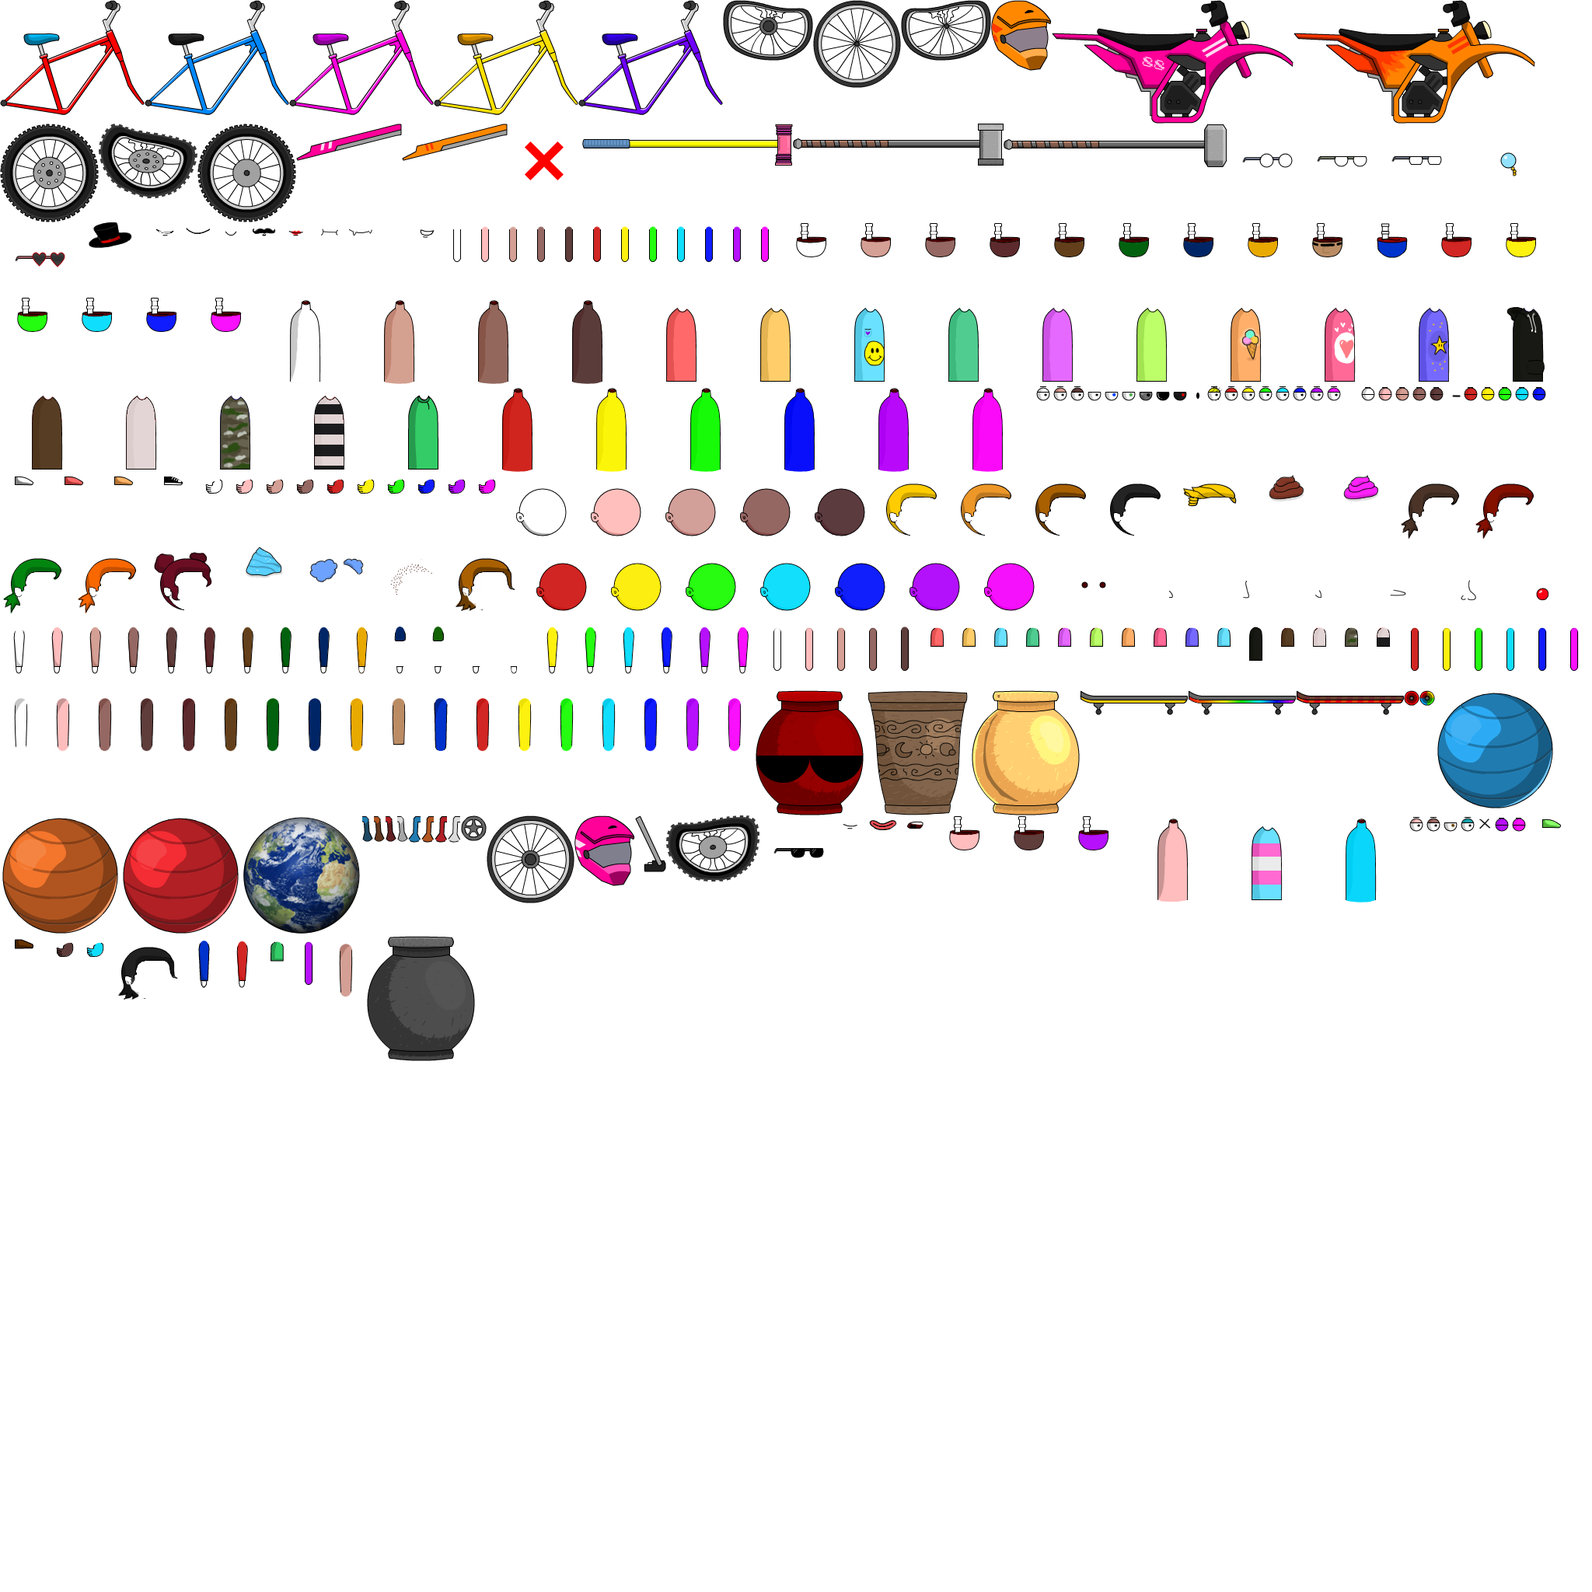
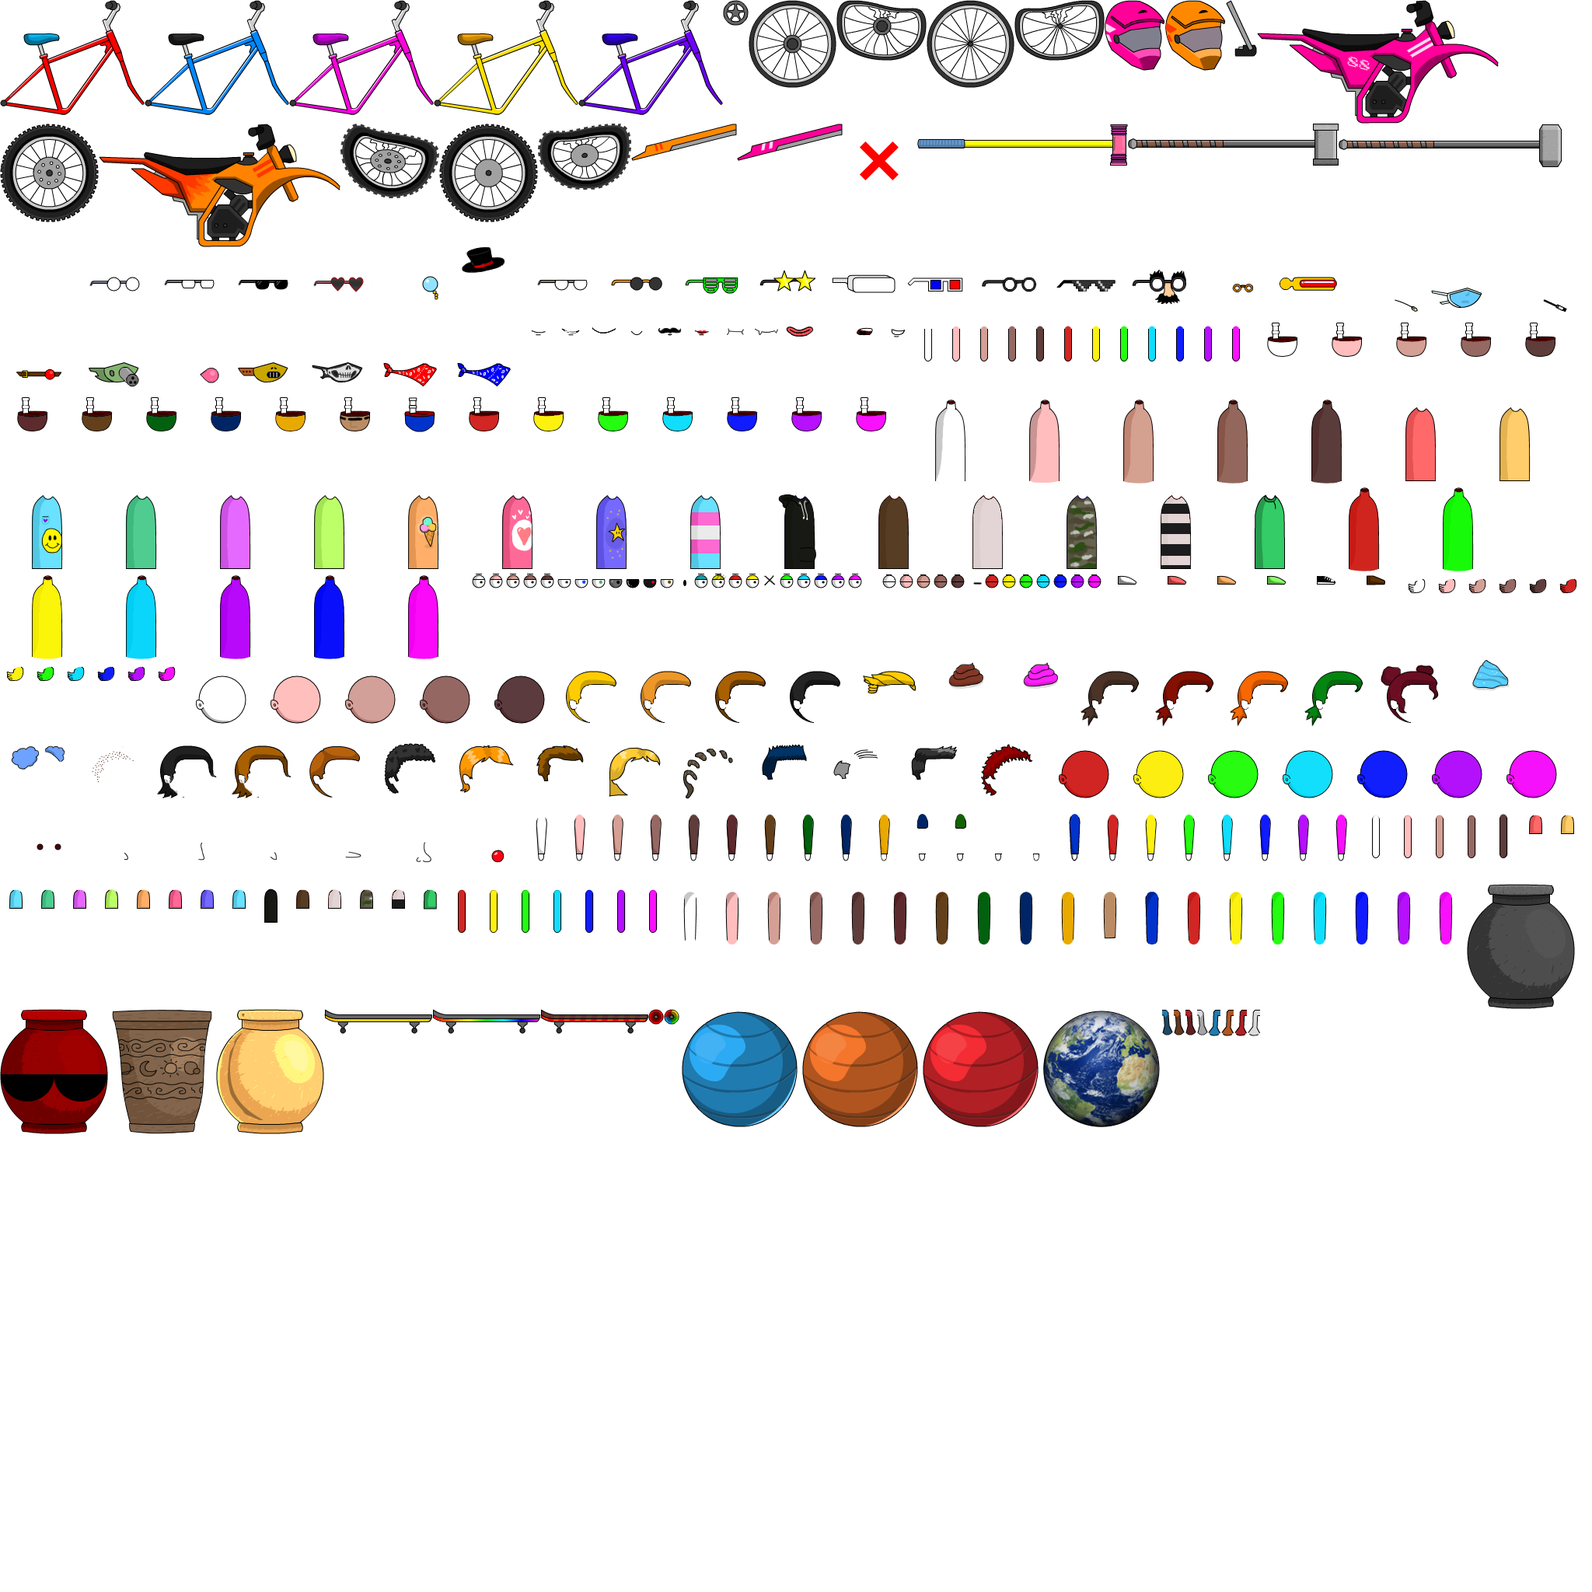
JollyBoy's assets are now in

Changed region(s): [[0.0, 0.0, 1.0, 0.7188]]

diff --git a/static/mod/wardrobe/bundler.html b/static/mod/wardrobe/bundler.html
@@ -8,7 +8,7 @@
 <body>
 	<canvas width="2048" height="2048"></canvas>
 	<script type="text/javascript">
-		const imgs = ['Bicycle_Body0000.png', 'Bicycle_Body0001.png', 'Bicycle_Body0002.png', 'Bicycle_Body0003.png', 'Bicycle_Body0004.png', 'Bicycle_Pedals0000.png', 'Bicycle_WheelBack0000.png', 'Bicycle_WheelBack_Bended0000.png', 'Bicycle_WheelFront0000.png', 'Bicycle_WheelFront_Bended0000.png', 'DirtBikeHelmet0000.png', 'DirtBikeHelmet0001.png', 'DirtBike_Axis0000.png', 'DirtBike_Body0000.png', 'DirtBike_Body0001.png', 'DirtBike_WheelBack0000.png', 'DirtBike_WheelBack_Bended0000.png', 'DirtBike_WheelFront0000.png', 'DirtBike_WheelFront_Bended0000.png', 'DirtBike_WheelSupport0000.png', 'DirtBike_WheelSupport0001.png', 'empty.png', 'Hammer0000.png', 'Hammer0001.png', 'Hammer_20000.png', 'masks0000.png', 'masks0001.png', 'masks0002.png', 'masks0003.png', 'masks0004.png', 'masks0005.png', 'masks0006.png', 'Mouth_Idle0000.png', 'Mouth_Idle0001.png', 'Mouth_Idle0002.png', 'Mouth_Idle0003.png', 'Mouth_Idle0004.png', 'Mouth_Idle0005.png', 'Mouth_Idle0006.png', 'Mouth_Idle0007.png', 'Mouth_Idle0008.png', 'Mouth_Idle9998.png', 'Mouth_Pain0000.png', 'Mouth_Special0000.png', 'Normal_Arm0000.png', 'Normal_Arm0001.png', 'Normal_Arm0002.png', 'Normal_Arm0003.png', 'Normal_Arm0004.png', 'Normal_Arm1000.png', 'Normal_Arm1001.png', 'Normal_Arm1002.png', 'Normal_Arm1003.png', 'Normal_Arm1004.png', 'Normal_Arm1005.png', 'Normal_Arm1006.png', 'Normal_Belly0000.png', 'Normal_Belly0001.png', 'Normal_Belly0002.png', 'Normal_Belly0003.png', 'Normal_Belly0004.png', 'Normal_Belly0005.png', 'Normal_Belly0006.png', 'Normal_Belly0007.png', 'Normal_Belly0008.png', 'Normal_Belly0009.png', 'Normal_Belly0010.png', 'Normal_Belly0011.png', 'Normal_Belly1000.png', 'Normal_Belly1001.png', 'Normal_Belly1002.png', 'Normal_Belly1003.png', 'Normal_Belly1004.png', 'Normal_Belly1005.png', 'Normal_Belly1006.png', 'Normal_Core0000.png', 'Normal_Core0001.png', 'Normal_Core0002.png', 'Normal_Core0003.png', 'Normal_Core0004.png', 'Normal_Core0005.png', 'Normal_Core0006.png', 'Normal_Core0007.png', 'Normal_Core0008.png', 'Normal_Core0009.png', 'Normal_Core0010.png', 'Normal_Core0011.png', 'Normal_Core0012.png', 'Normal_Core0013.png', 'Normal_Core0014.png', 'Normal_Core0015.png', 'Normal_Core0016.png', 'Normal_Core0017.png', 'Normal_Core0018.png', 'Normal_Core0019.png', 'Normal_Core0020.png', 'Normal_Core1000.png', 'Normal_Core1001.png', 'Normal_Core1002.png', 'Normal_Core1003.png', 'Normal_Core1004.png', 'Normal_Core1005.png', 'Normal_Core1006.png', 'Normal_Eye0000.png', 'Normal_Eye0001.png', 'Normal_Eye0002.png', 'Normal_Eye0003.png', 'Normal_Eye0004.png', 'Normal_Eye0005.png', 'Normal_Eye0006.png', 'Normal_Eye0007.png', 'Normal_Eye0008.png', 'Normal_Eye0009.png', 'Normal_Eye0010.png', 'Normal_Eye0012.png', 'Normal_Eye0013.png', 'Normal_Eye0014.png', 'Normal_Eye0015.png', 'Normal_Eye0016.png', 'Normal_Eye1000.png', 'Normal_Eye1001.png', 'Normal_Eye1002.png', 'Normal_Eye1003.png', 'Normal_Eye1004.png', 'Normal_Eye1005.png', 'Normal_Eye1006.png', 'Normal_Eye9998.png', 'Normal_Eye_Closed0000.png', 'Normal_Eye_Closed0001.png', 'Normal_Eye_Closed0002.png', 'Normal_Eye_Closed0003.png', 'Normal_Eye_Closed0004.png', 'Normal_Eye_Closed0005.png', 'Normal_Eye_Closed1000.png', 'Normal_Eye_Closed1001.png', 'Normal_Eye_Closed1002.png', 'Normal_Eye_Closed1003.png', 'Normal_Eye_Closed1004.png', 'Normal_Eye_Closed1005.png', 'Normal_Eye_Closed1006.png', 'Normal_Feet0000.png', 'Normal_Feet0001.png', 'Normal_Feet0002.png', 'Normal_Feet0003.png', 'Normal_Feet0004.png', 'Normal_Feet0005.png', 'Normal_Hand0000.png', 'Normal_Hand0001.png', 'Normal_Hand0002.png', 'Normal_Hand0003.png', 'Normal_Hand0004.png', 'Normal_Hand1000.png', 'Normal_Hand1001.png', 'Normal_Hand1002.png', 'Normal_Hand1003.png', 'Normal_Hand1004.png', 'Normal_Hand1005.png', 'Normal_Hand1006.png', 'Normal_Head_Idle0000.png', 'Normal_Head_Idle0001.png', 'Normal_Head_Idle0002.png', 'Normal_Head_Idle0003.png', 'Normal_Head_Idle0004.png', 'Normal_Head_Idle0005.png', 'Normal_Head_Idle0006.png', 'Normal_Head_Idle0007.png', 'Normal_Head_Idle0008.png', 'Normal_Head_Idle0009.png', 'Normal_Head_Idle0010.png', 'Normal_Head_Idle0011.png', 'Normal_Head_Idle0012.png', 'Normal_Head_Idle0013.png', 'Normal_Head_Idle0014.png', 'Normal_Head_Idle0015.png', 'Normal_Head_Idle0017.png', 'Normal_Head_Idle0018.png', 'Normal_Head_Idle0019.png', 'Normal_Head_Idle0020.png', 'Normal_Head_Idle0021.png', 'Normal_Head_Idle0022.png', 'Normal_Head_Idle1000.png', 'Normal_Head_Idle1001.png', 'Normal_Head_Idle1002.png', 'Normal_Head_Idle1003.png', 'Normal_Head_Idle1004.png', 'Normal_Head_Idle1005.png', 'Normal_Head_Idle1006.png', 'Normal_Head_Idle9998.png', 'Normal_Head_Nose0000.png', 'Normal_Head_Nose0001.png', 'Normal_Head_Nose0002.png', 'Normal_Head_Nose0003.png', 'Normal_Head_Nose0004.png', 'Normal_Head_Nose0005.png', 'Normal_Leg0000.png', 'Normal_Leg0001.png', 'Normal_Leg0002.png', 'Normal_Leg0003.png', 'Normal_Leg0004.png', 'Normal_Leg0005.png', 'Normal_Leg0006.png', 'Normal_Leg0007.png', 'Normal_Leg0008.png', 'Normal_Leg0009.png', 'Normal_Leg0010.png', 'Normal_Leg0011.png', 'Normal_Leg0012.png', 'Normal_Leg0013.png', 'Normal_Leg0014.png', 'Normal_Leg1000.png', 'Normal_Leg1001.png', 'Normal_Leg1002.png', 'Normal_Leg1003.png', 'Normal_Leg1004.png', 'Normal_Leg1005.png', 'Normal_Leg1006.png', 'Normal_Shoulder0000.png', 'Normal_Shoulder0001.png', 'Normal_Shoulder0002.png', 'Normal_Shoulder0003.png', 'Normal_Shoulder0004.png', 'Normal_Shoulder0005.png', 'Normal_Shoulder0006.png', 'Normal_Shoulder0007.png', 'Normal_Shoulder0008.png', 'Normal_Shoulder0009.png', 'Normal_Shoulder0010.png', 'Normal_Shoulder0011.png', 'Normal_Shoulder0012.png', 'Normal_Shoulder0013.png', 'Normal_Shoulder0014.png', 'Normal_Shoulder0015.png', 'Normal_Shoulder0016.png', 'Normal_Shoulder0017.png', 'Normal_Shoulder0018.png', 'Normal_Shoulder0019.png', 'Normal_Shoulder0020.png', 'Normal_Shoulder1000.png', 'Normal_Shoulder1001.png', 'Normal_Shoulder1002.png', 'Normal_Shoulder1003.png', 'Normal_Shoulder1004.png', 'Normal_Shoulder1005.png', 'Normal_Shoulder1006.png', 'Normal_Thigh0000.png', 'Normal_Thigh0001.png', 'Normal_Thigh0002.png', 'Normal_Thigh0003.png', 'Normal_Thigh0004.png', 'Normal_Thigh0005.png', 'Normal_Thigh0006.png', 'Normal_Thigh0007.png', 'Normal_Thigh0008.png', 'Normal_Thigh0009.png', 'Normal_Thigh0010.png', 'Normal_Thigh0011.png', 'Normal_Thigh1000.png', 'Normal_Thigh1001.png', 'Normal_Thigh1002.png', 'Normal_Thigh1003.png', 'Normal_Thigh1004.png', 'Normal_Thigh1005.png', 'Normal_Thigh1006.png', 'Pot0000.png', 'Pot0001.png', 'Pot0002.png', 'Pot_20000.png', 'SkateBoard_Board0000.png', 'SkateBoard_Board0001.png', 'SkateBoard_Board0002.png', 'Skateboard_Wheel0000.png', 'Skateboard_Wheel0001.png', 'YogaBall0000.png', 'YogaBall0001.png', 'YogaBall0002.png', 'YogaBall0003.png', 'YogaBallHandle_Back0000.png', 'YogaBallHandle_Back0001.png', 'YogaBallHandle_Back0002.png', 'YogaBallHandle_Back0003.png', 'YogaBall_Handle_Front0000.png', 'YogaBall_Handle_Front0001.png', 'YogaBall_Handle_Front0002.png', 'YogaBall_Handle_Front0003.png'];
+		const imgs = ['Bicycle_Body0000.png', 'Bicycle_Body0001.png', 'Bicycle_Body0002.png', 'Bicycle_Body0003.png', 'Bicycle_Body0004.png', 'Bicycle_Pedals0000.png', 'Bicycle_WheelBack0000.png', 'Bicycle_WheelBack_Bended0000.png', 'Bicycle_WheelFront0000.png', 'Bicycle_WheelFront_Bended0000.png', 'DirtBikeHelmet0000.png', 'DirtBikeHelmet0001.png', 'DirtBike_Axis0000.png', 'DirtBike_Body0000.png', 'DirtBike_Body0001.png', 'DirtBike_WheelBack0000.png', 'DirtBike_WheelBack_Bended0000.png', 'DirtBike_WheelFront0000.png', 'DirtBike_WheelFront_Bended0000.png', 'DirtBike_WheelSupport0000.png', 'DirtBike_WheelSupport0001.png', 'empty.png', 'Hammer0000.png', 'Hammer0001.png', 'Hammer_20000.png', 'masks0000.png', 'masks0001.png', 'masks0002.png', 'masks0003.png', 'masks0004.png', 'masks0005.png', 'masks0006.png', 'masks0007.png', 'masks0008.png', 'masks0009.png', 'masks0010.png', 'masks0011.png', 'masks0012.png', 'masks0013.png', 'masks0014.png', 'masks0015.png', 'masks0016.png', 'masks0017.png', 'masks0018.png', 'masks0019.png', 'masks0020.png', 'masks0021.png', 'masks0022.png', 'masks0023.png', 'masks0024.png', 'masks0025.png', 'masks0026.png', 'masks0027.png', 'Mouth_Idle0000.png', 'Mouth_Idle0001.png', 'Mouth_Idle0002.png', 'Mouth_Idle0003.png', 'Mouth_Idle0004.png', 'Mouth_Idle0005.png', 'Mouth_Idle0006.png', 'Mouth_Idle0007.png', 'Mouth_Idle0008.png', 'Mouth_Idle9998.png', 'Mouth_Pain0000.png', 'Mouth_Special0000.png', 'Normal_Arm0000.png', 'Normal_Arm0001.png', 'Normal_Arm0002.png', 'Normal_Arm0003.png', 'Normal_Arm0004.png', 'Normal_Arm1000.png', 'Normal_Arm1001.png', 'Normal_Arm1002.png', 'Normal_Arm1003.png', 'Normal_Arm1004.png', 'Normal_Arm1005.png', 'Normal_Arm1006.png', 'Normal_Belly0000.png', 'Normal_Belly0001.png', 'Normal_Belly0002.png', 'Normal_Belly0003.png', 'Normal_Belly0004.png', 'Normal_Belly0005.png', 'Normal_Belly0006.png', 'Normal_Belly0007.png', 'Normal_Belly0008.png', 'Normal_Belly0009.png', 'Normal_Belly0010.png', 'Normal_Belly0011.png', 'Normal_Belly1000.png', 'Normal_Belly1001.png', 'Normal_Belly1002.png', 'Normal_Belly1003.png', 'Normal_Belly1004.png', 'Normal_Belly1005.png', 'Normal_Belly1006.png', 'Normal_Core0000.png', 'Normal_Core0001.png', 'Normal_Core0002.png', 'Normal_Core0003.png', 'Normal_Core0004.png', 'Normal_Core0005.png', 'Normal_Core0006.png', 'Normal_Core0007.png', 'Normal_Core0008.png', 'Normal_Core0009.png', 'Normal_Core0010.png', 'Normal_Core0011.png', 'Normal_Core0012.png', 'Normal_Core0013.png', 'Normal_Core0014.png', 'Normal_Core0015.png', 'Normal_Core0016.png', 'Normal_Core0017.png', 'Normal_Core0018.png', 'Normal_Core0019.png', 'Normal_Core0020.png', 'Normal_Core1000.png', 'Normal_Core1001.png', 'Normal_Core1002.png', 'Normal_Core1003.png', 'Normal_Core1004.png', 'Normal_Core1005.png', 'Normal_Core1006.png', 'Normal_Eye0000.png', 'Normal_Eye0001.png', 'Normal_Eye0002.png', 'Normal_Eye0003.png', 'Normal_Eye0004.png', 'Normal_Eye0005.png', 'Normal_Eye0006.png', 'Normal_Eye0007.png', 'Normal_Eye0008.png', 'Normal_Eye0009.png', 'Normal_Eye0010.png', 'Normal_Eye0012.png', 'Normal_Eye0013.png', 'Normal_Eye0014.png', 'Normal_Eye0015.png', 'Normal_Eye0016.png', 'Normal_Eye1000.png', 'Normal_Eye1001.png', 'Normal_Eye1002.png', 'Normal_Eye1003.png', 'Normal_Eye1004.png', 'Normal_Eye1005.png', 'Normal_Eye1006.png', 'Normal_Eye9998.png', 'Normal_Eye_Closed0000.png', 'Normal_Eye_Closed0001.png', 'Normal_Eye_Closed0002.png', 'Normal_Eye_Closed0003.png', 'Normal_Eye_Closed0004.png', 'Normal_Eye_Closed0005.png', 'Normal_Eye_Closed1000.png', 'Normal_Eye_Closed1001.png', 'Normal_Eye_Closed1002.png', 'Normal_Eye_Closed1003.png', 'Normal_Eye_Closed1004.png', 'Normal_Eye_Closed1005.png', 'Normal_Eye_Closed1006.png', 'Normal_Feet0000.png', 'Normal_Feet0001.png', 'Normal_Feet0002.png', 'Normal_Feet0003.png', 'Normal_Feet0004.png', 'Normal_Feet0005.png', 'Normal_Hand0000.png', 'Normal_Hand0001.png', 'Normal_Hand0002.png', 'Normal_Hand0003.png', 'Normal_Hand0004.png', 'Normal_Hand1000.png', 'Normal_Hand1001.png', 'Normal_Hand1002.png', 'Normal_Hand1003.png', 'Normal_Hand1004.png', 'Normal_Hand1005.png', 'Normal_Hand1006.png', 'Normal_Head_Idle0000.png', 'Normal_Head_Idle0001.png', 'Normal_Head_Idle0002.png', 'Normal_Head_Idle0003.png', 'Normal_Head_Idle0004.png', 'Normal_Head_Idle0005.png', 'Normal_Head_Idle0006.png', 'Normal_Head_Idle0007.png', 'Normal_Head_Idle0008.png', 'Normal_Head_Idle0009.png', 'Normal_Head_Idle0010.png', 'Normal_Head_Idle0011.png', 'Normal_Head_Idle0012.png', 'Normal_Head_Idle0013.png', 'Normal_Head_Idle0014.png', 'Normal_Head_Idle0015.png', 'Normal_Head_Idle0017.png', 'Normal_Head_Idle0018.png', 'Normal_Head_Idle0019.png', 'Normal_Head_Idle0020.png', 'Normal_Head_Idle0021.png', 'Normal_Head_Idle0022.png', 'Normal_Head_Idle0023.png', 'Normal_Head_Idle0024.png', 'Normal_Head_Idle0025.png', 'Normal_Head_Idle0026.png', 'Normal_Head_Idle0027.png', 'Normal_Head_Idle0028.png', 'Normal_Head_Idle0029.png', 'Normal_Head_Idle0030.png', 'Normal_Head_Idle0031.png', 'Normal_Head_Idle0032.png', 'Normal_Head_Idle1000.png', 'Normal_Head_Idle1001.png', 'Normal_Head_Idle1002.png', 'Normal_Head_Idle1003.png', 'Normal_Head_Idle1004.png', 'Normal_Head_Idle1005.png', 'Normal_Head_Idle1006.png', 'Normal_Head_Idle9998.png', 'Normal_Head_Nose0000.png', 'Normal_Head_Nose0001.png', 'Normal_Head_Nose0002.png', 'Normal_Head_Nose0003.png', 'Normal_Head_Nose0004.png', 'Normal_Head_Nose0005.png', 'Normal_Leg0000.png', 'Normal_Leg0001.png', 'Normal_Leg0002.png', 'Normal_Leg0003.png', 'Normal_Leg0004.png', 'Normal_Leg0005.png', 'Normal_Leg0006.png', 'Normal_Leg0007.png', 'Normal_Leg0008.png', 'Normal_Leg0009.png', 'Normal_Leg0010.png', 'Normal_Leg0011.png', 'Normal_Leg0012.png', 'Normal_Leg0013.png', 'Normal_Leg0014.png', 'Normal_Leg1000.png', 'Normal_Leg1001.png', 'Normal_Leg1002.png', 'Normal_Leg1003.png', 'Normal_Leg1004.png', 'Normal_Leg1005.png', 'Normal_Leg1006.png', 'Normal_Shoulder0000.png', 'Normal_Shoulder0001.png', 'Normal_Shoulder0002.png', 'Normal_Shoulder0003.png', 'Normal_Shoulder0004.png', 'Normal_Shoulder0005.png', 'Normal_Shoulder0006.png', 'Normal_Shoulder0007.png', 'Normal_Shoulder0008.png', 'Normal_Shoulder0009.png', 'Normal_Shoulder0010.png', 'Normal_Shoulder0011.png', 'Normal_Shoulder0012.png', 'Normal_Shoulder0013.png', 'Normal_Shoulder0014.png', 'Normal_Shoulder0015.png', 'Normal_Shoulder0016.png', 'Normal_Shoulder0017.png', 'Normal_Shoulder0018.png', 'Normal_Shoulder0019.png', 'Normal_Shoulder0020.png', 'Normal_Shoulder1000.png', 'Normal_Shoulder1001.png', 'Normal_Shoulder1002.png', 'Normal_Shoulder1003.png', 'Normal_Shoulder1004.png', 'Normal_Shoulder1005.png', 'Normal_Shoulder1006.png', 'Normal_Thigh0000.png', 'Normal_Thigh0001.png', 'Normal_Thigh0002.png', 'Normal_Thigh0003.png', 'Normal_Thigh0004.png', 'Normal_Thigh0005.png', 'Normal_Thigh0006.png', 'Normal_Thigh0007.png', 'Normal_Thigh0008.png', 'Normal_Thigh0009.png', 'Normal_Thigh0010.png', 'Normal_Thigh0011.png', 'Normal_Thigh1000.png', 'Normal_Thigh1001.png', 'Normal_Thigh1002.png', 'Normal_Thigh1003.png', 'Normal_Thigh1004.png', 'Normal_Thigh1005.png', 'Normal_Thigh1006.png', 'Pot0000.png', 'Pot0001.png', 'Pot0002.png', 'Pot_20000.png', 'SkateBoard_Board0000.png', 'SkateBoard_Board0001.png', 'SkateBoard_Board0002.png', 'Skateboard_Wheel0000.png', 'Skateboard_Wheel0001.png', 'YogaBall0000.png', 'YogaBall0001.png', 'YogaBall0002.png', 'YogaBall0003.png', 'YogaBallHandle_Back0000.png', 'YogaBallHandle_Back0001.png', 'YogaBallHandle_Back0002.png', 'YogaBallHandle_Back0003.png', 'YogaBall_Handle_Front0000.png', 'YogaBall_Handle_Front0001.png', 'YogaBall_Handle_Front0002.png', 'YogaBall_Handle_Front0003.png'];
 
 		cvs = document.querySelector('canvas');
 		ctx = cvs.getContext('2d')

diff --git a/static/mod/modAssets.js b/static/mod/modAssets.js
@@ -738,6 +738,66 @@ const wardrobe_features = [
 			overwrite: [
 				["Normal_Head_Idle0000.png", "Normal_Head_Idle0022.png", 1]
 			]
+		},
+		{
+			thumb: "Normal_Head_Idle0023.png",
+			overwrite: [
+				["Normal_Head_Idle0000.png", "Normal_Head_Idle0023.png", 1]
+			]
+		},
+		{
+			thumb: "Normal_Head_Idle0024.png",
+			overwrite: [
+				["Normal_Head_Idle0000.png", "Normal_Head_Idle0024.png", 1]
+			]
+		},
+		{
+			thumb: "Normal_Head_Idle0025.png",
+			overwrite: [
+				["Normal_Head_Idle0000.png", "Normal_Head_Idle0025.png", 1]
+			]
+		},
+		{
+			thumb: "Normal_Head_Idle0026.png",
+			overwrite: [
+				["Normal_Head_Idle0000.png", "Normal_Head_Idle0026.png", 1]
+			]
+		},
+		{
+			thumb: "Normal_Head_Idle0027.png",
+			overwrite: [
+				["Normal_Head_Idle0000.png", "Normal_Head_Idle0027.png", 1]
+			]
+		},
+		{
+			thumb: "Normal_Head_Idle0028.png",
+			overwrite: [
+				["Normal_Head_Idle0000.png", "Normal_Head_Idle0028.png", 1]
+			]
+		},
+		{
+			thumb: "Normal_Head_Idle0029.png",
+			overwrite: [
+				["Normal_Head_Idle0000.png", "Normal_Head_Idle0029.png", 1]
+			]
+		},
+		{
+			thumb: "Normal_Head_Idle0030.png",
+			overwrite: [
+				["Normal_Head_Idle0000.png", "Normal_Head_Idle0030.png", 1]
+			]
+		},
+		{
+			thumb: "Normal_Head_Idle0031.png",
+			overwrite: [
+				["Normal_Head_Idle0000.png", "Normal_Head_Idle0031.png", 1]
+			]
+		},
+		{
+			thumb: "Normal_Head_Idle0032.png",
+			overwrite: [
+				["Normal_Head_Idle0000.png", "Normal_Head_Idle0032.png", 1]
+			]
 		}
 	],
 	// Pants
@@ -993,21 +1053,147 @@ const wardrobe_features = [
 			]
 		},
 		{
-			thumb: "masks0005.png",
+			thumb: "masks0004.png",
 			overwrite: [
-				["masks0000.png", "masks0005.png"],
+				["masks0000.png", "masks0004.png"],
 			]
 		},
 		{
-			thumb: "masks0004.png",
+			thumb: "masks0005.png",
 			overwrite: [
-				["masks0000.png", "masks0004.png"]
+				["masks0000.png", "masks0005.png"]
 			]
 		},
 		{
 			thumb: "masks0006.png",
 			overwrite: [
 				["masks0000.png", "masks0006.png"]
+			]
+		},
+		{
+			thumb: "masks0007.png",
+			overwrite: [
+				["masks0000.png", "masks0007.png"]
+			]
+		},
+		{
+			thumb: "masks0008.png",
+			overwrite: [
+				["masks0000.png", "masks0008.png"]
+			]
+		},
+		{
+			thumb: "masks0009.png",
+			overwrite: [
+				["masks0000.png", "masks0009.png"]
+			]
+		},
+		{
+			thumb: "masks0010.png",
+			overwrite: [
+				["masks0000.png", "masks0010.png"]
+			]
+		},
+		{
+			thumb: "masks0011.png",
+			overwrite: [
+				["masks0000.png", "masks0011.png"]
+			]
+		},
+		{
+			thumb: "masks0012.png",
+			overwrite: [
+				["masks0000.png", "masks0012.png"]
+			]
+		},
+		{
+			thumb: "masks0013.png",
+			overwrite: [
+				["masks0000.png", "masks0013.png"]
+			]
+		},
+		{
+			thumb: "masks0014.png",
+			overwrite: [
+				["masks0000.png", "masks0014.png"]
+			]
+		},
+		{
+			thumb: "masks0015.png",
+			overwrite: [
+				["masks0000.png", "masks0015.png"]
+			]
+		},
+		{
+			thumb: "masks0016.png",
+			overwrite: [
+				["masks0000.png", "masks0016.png"]
+			]
+		},
+		{
+			thumb: "masks0017.png",
+			overwrite: [
+				["masks0000.png", "masks0017.png"]
+			]
+		},
+		{
+			thumb: "masks0018.png",
+			overwrite: [
+				["masks0000.png", "masks0018.png"]
+			]
+		},
+		{
+			thumb: "masks0019.png",
+			overwrite: [
+				["masks0000.png", "masks0019.png"]
+			]
+		},
+		{
+			thumb: "masks0020.png",
+			overwrite: [
+				["masks0000.png", "masks0020.png"]
+			]
+		},
+		{
+			thumb: "masks0021.png",
+			overwrite: [
+				["masks0000.png", "masks0021.png"]
+			]
+		},
+		{
+			thumb: "masks0022.png",
+			overwrite: [
+				["masks0000.png", "masks0022.png"]
+			]
+		},
+		{
+			thumb: "masks0023.png",
+			overwrite: [
+				["masks0000.png", "masks0023.png"]
+			]
+		},
+		{
+			thumb: "masks0024.png",
+			overwrite: [
+				["masks0000.png", "masks0024.png"]
+			]
+		},
+		{
+			thumb: "masks0025.png",
+			overwrite: [
+				["masks0000.png", "masks0025.png"]
+			]
+		},
+		{
+			thumb: "masks0026.png",
+			overwrite: [
+				["masks0000.png", "masks0026.png"]
+			]
+		},
+		{
+			thumb: "masks0027.png",
+			overwrite: [
+				["masks0000.png", "masks0027.png"]
 			]
 		}
 	],

diff --git a/static/mod/wardrobe/bundler.py b/static/mod/wardrobe/bundler.py
@@ -1,4 +1,4 @@
 from os import walk
 
-for (_, _, filenames) in walk('C:/Users/Warze/Desktop/testing'):
+for (_, _, filenames) in walk('C:/Users/Warze/Documents/GitHub/JollyWorld/static/mod/wardrobe'):
 	print(filenames)
